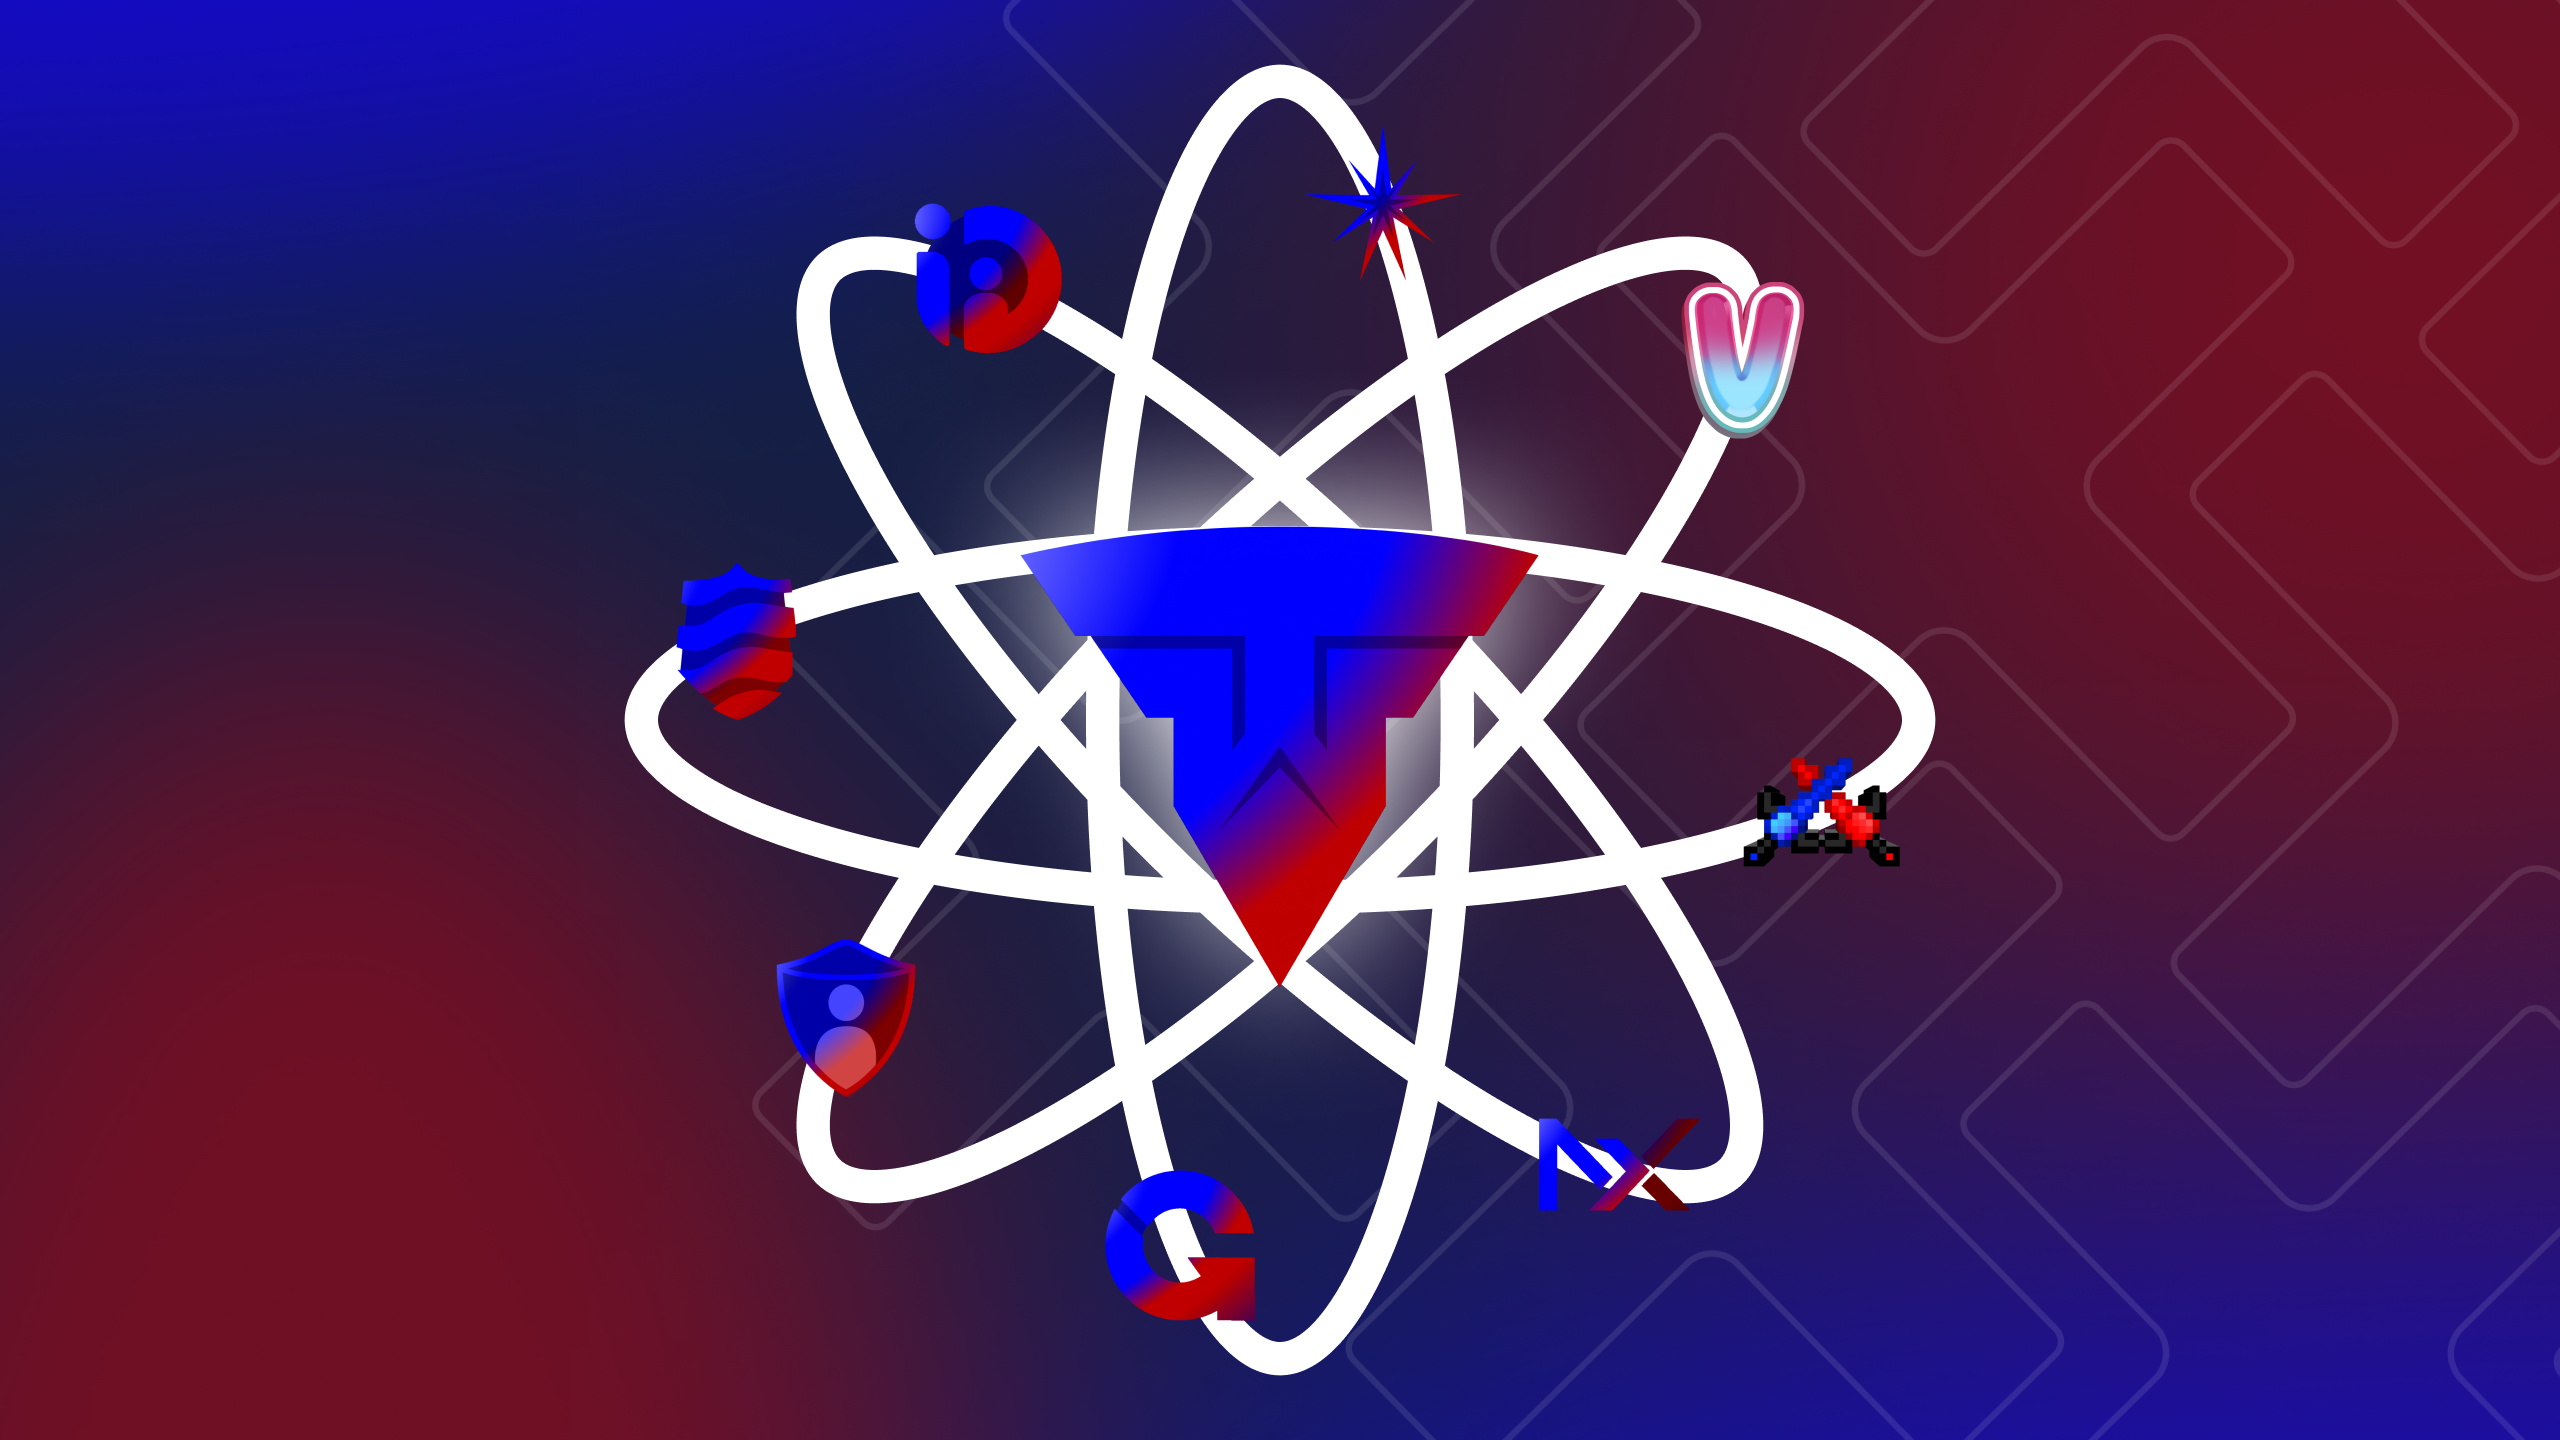
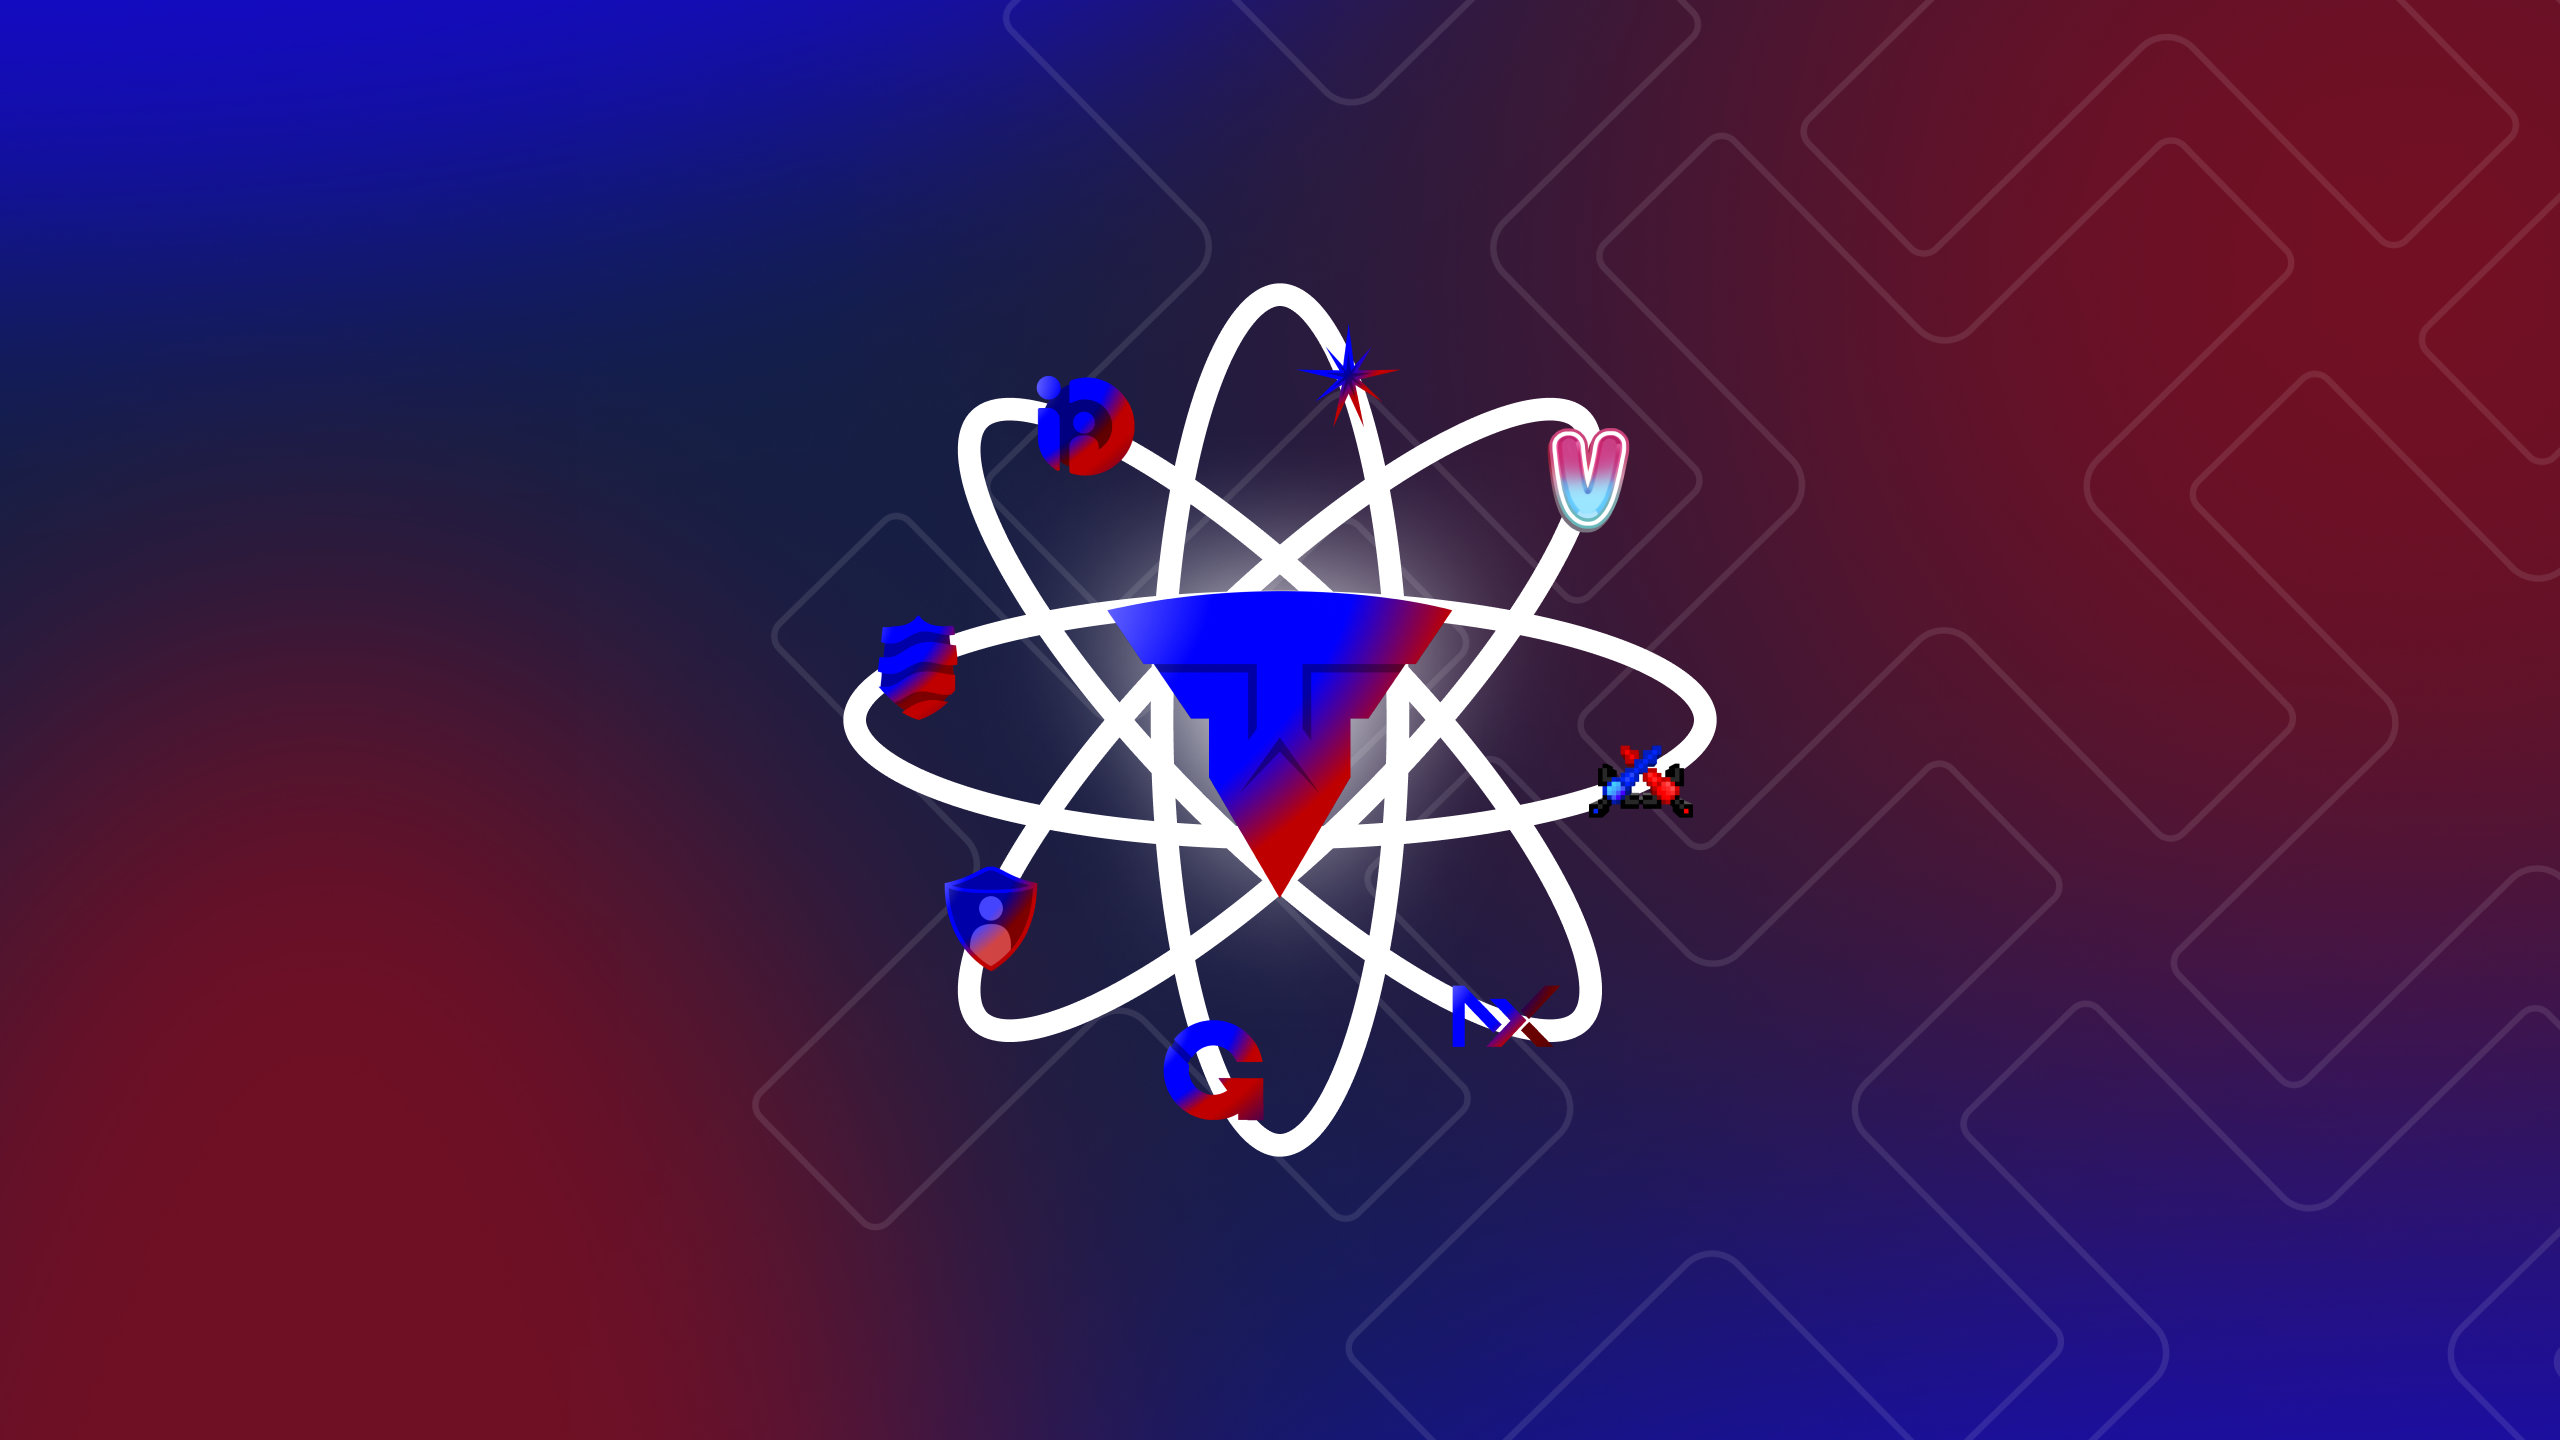
update wallpaper

Changed region(s): [[0.2188, 0.0312, 0.7812, 0.9688]]

diff --git a/src/app/pages/mediakit/mediakit.ts b/src/app/pages/mediakit/mediakit.ts
@@ -613,14 +613,25 @@ export class Mediakit implements AfterViewInit, OnDestroy {
       ],
     },
     {
-      name: 'Fond d\'écran Glass',
-      nameEn: 'Glass Wallpaper',
-      slug: 'wallpaper-glass',
-      thumb: 'assets/wallpapers/TyroliumWallpaper-Glass-1080p.png',
+      name: 'Fond d\'écran Glass Sombre',
+      nameEn: 'Glass Dark Wallpaper',
+      slug: 'wallpaper-glass-dark',
+      thumb: 'assets/wallpapers/TyroliumWallpaper-Glass-Dark-1080p.png',
       versions: [
-        { label: '4K',    url: 'assets/wallpapers/TyroliumWallpaper-Glass-4K.png',    filename: 'tyrolium-glass-4k.png' },
-        { label: '1440p', url: 'assets/wallpapers/TyroliumWallpaper-Glass-1440p.png', filename: 'tyrolium-glass-1440p.png' },
-        { label: '1080p', url: 'assets/wallpapers/TyroliumWallpaper-Glass-1080p.png', filename: 'tyrolium-glass-1080p.png' },
+        { label: '4K',    url: 'assets/wallpapers/TyroliumWallpaper-Glass-Dark-4K.png',    filename: 'tyrolium-glass-dark-4k.png' },
+        { label: '1440p', url: 'assets/wallpapers/TyroliumWallpaper-Glass-Dark-1440p.png', filename: 'tyrolium-glass-dark-1440p.png' },
+        { label: '1080p', url: 'assets/wallpapers/TyroliumWallpaper-Glass-Dark-1080p.png', filename: 'tyrolium-glass-dark-1080p.png' },
+      ],
+    },
+    {
+      name: 'Fond d\'écran Glass Clair',
+      nameEn: 'Glass White Wallpaper',
+      slug: 'wallpaper-glass-white',
+      thumb: 'assets/wallpapers/TyroliumWallpaper-Glass-White-1080p.png',
+      versions: [
+        { label: '4K',    url: 'assets/wallpapers/TyroliumWallpaper-Glass-White-4K.png',    filename: 'tyrolium-glass-white-4k.png' },
+        { label: '1440p', url: 'assets/wallpapers/TyroliumWallpaper-Glass-White-1440p.png', filename: 'tyrolium-glass-white-1440p.png' },
+        { label: '1080p', url: 'assets/wallpapers/TyroliumWallpaper-Glass-White-1080p.png', filename: 'tyrolium-glass-white-1080p.png' },
       ],
     },
     {
